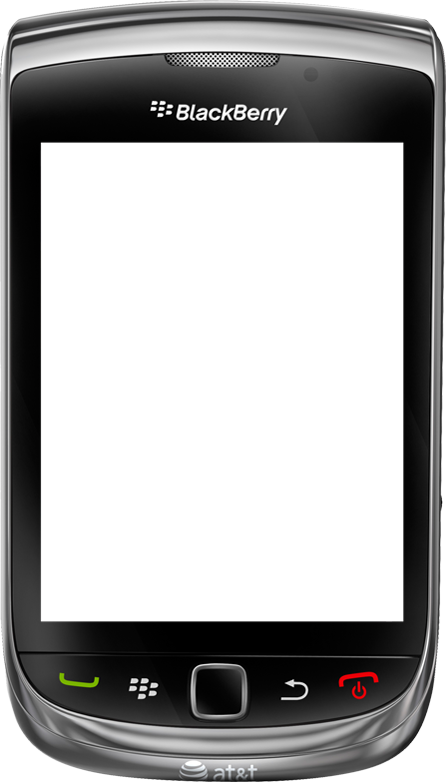
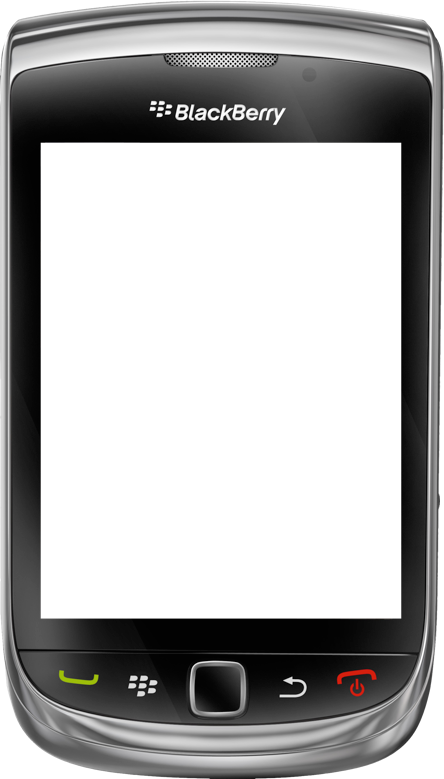
Updating Torch 9800 image to remove AT&T branding

diff --git a/lib/ripple/devices/Torch/skin.css b/lib/ripple/devices/Torch/skin.css
@@ -13,8 +13,9 @@
  * See the License for the specific language governing permissions and
  * limitations under the License.
  */
+
 /* ------------------------------>
-    Torch Skin (446x782) offset (41x144)*/
+    Torch Skin (444x779) offset (40x142)*/
 .viewport-wrapper-Torch {
     width:360px;
     height:480px;
@@ -23,9 +24,9 @@
 
 .device-wrapper-Torch {
     position: relative;
-    padding: 144px 0 0 41px;
-    width:405px;
-    height:638px;
+    padding: 142px 0 0 40px;
+    width:404px;
+    height:637px;
     margin: 0 auto;
     border: none;
     -webkit-box-shadow: none;
@@ -35,7 +36,7 @@
 .menu-button-wrapper-Torch {
     position: relative;
     display: inline-block;
-    margin: 30px 0 0 75px;
+    margin: 32px 0 0 75px;
     width: 55px;
     height: 65px;
     cursor: pointer;
@@ -44,14 +45,14 @@
 .back-button-wrapper-Torch {
     position: relative;
     display: inline-block;
-    margin: 0 0 0 95px;
+    margin: 0 0 0 92px;
     width: 55px;
     height: 65px;
     cursor: pointer;
 }
 
 .viewport-wrapper-landscape-Torch {
-    margin: -99px 0 0 104px;
+    margin: -99px 0 0 103px;
     width:480px;
     height:360px;
     border: none;
@@ -60,9 +61,9 @@
 
 .device-wrapper-landscape-Torch {
     position: relative;
-    padding: 144px 0 0 41px;
-    width:740px;
-    height:300px;
+    padding: 142px 0 0 40px;
+    width:739px;
+    height:302px;
     margin: 0 auto;
     border: none;
     -webkit-box-shadow: none;
@@ -86,3 +87,4 @@
     height: 65px;
     cursor: pointer;
 }
+ 
